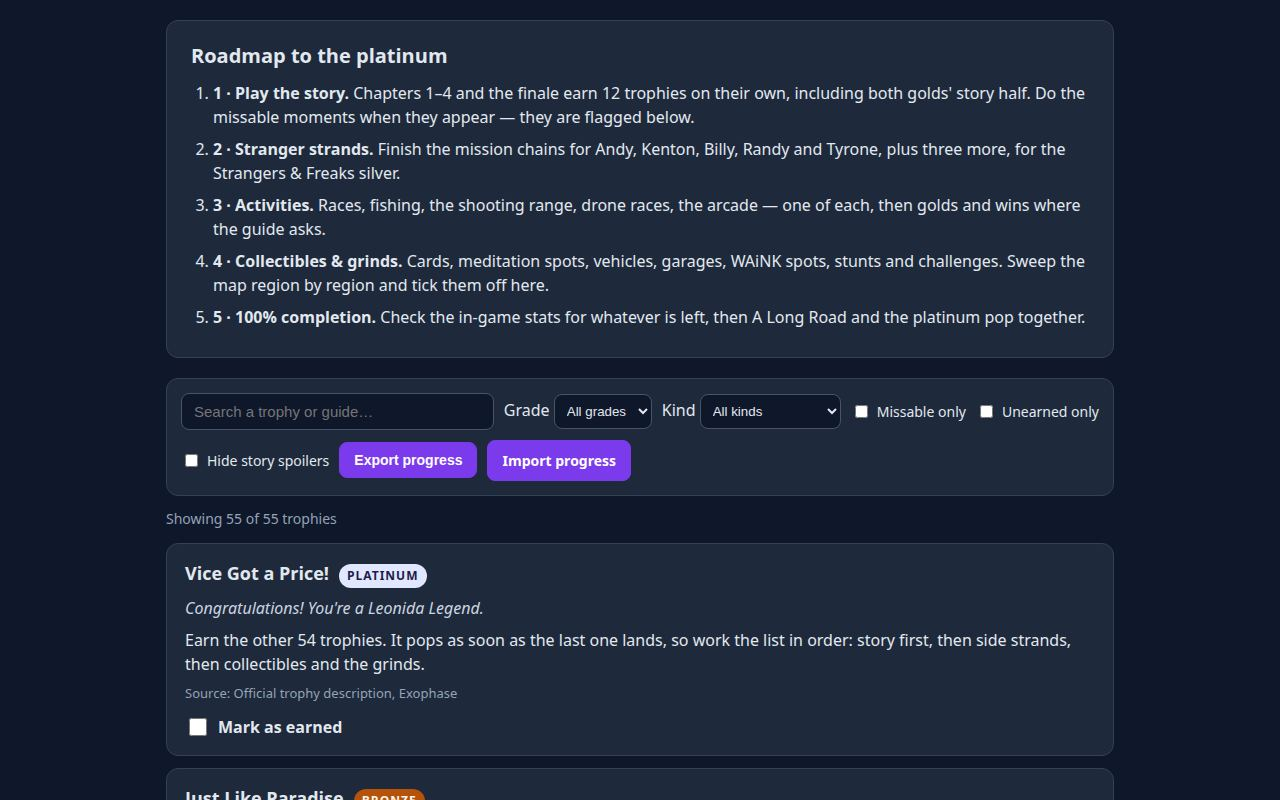
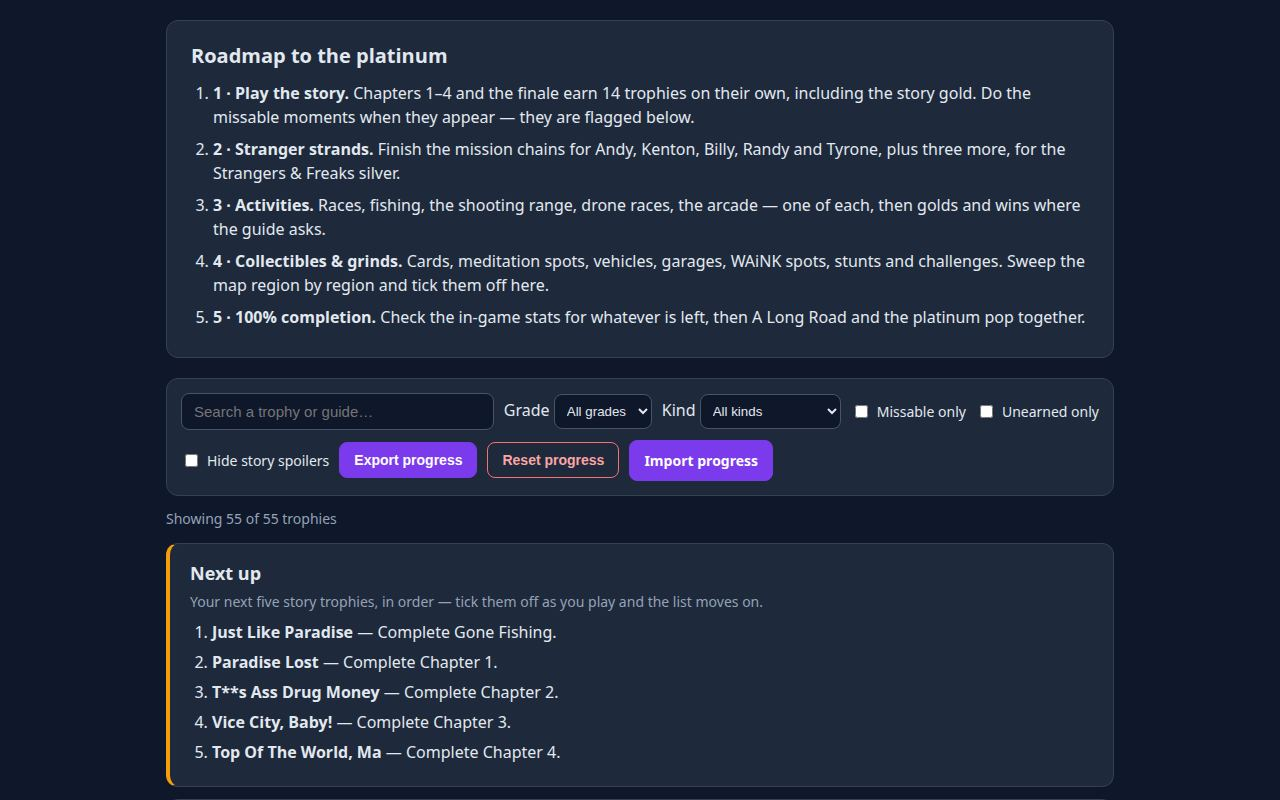
Add reset progress and Next up panel

Changed region(s): [[0.125, 0.6875, 0.8438, 1.0], [0.375, 0.5312, 0.625, 0.625], [0.6875, 0.0938, 0.8438, 0.125]]

diff --git a/app/index.html b/app/index.html
@@ -20,7 +20,7 @@
 <section class="roadmap" aria-label="Roadmap to the platinum">
   <h2>Roadmap to the platinum</h2>
   <ol>
-    <li><strong>1 · Play the story.</strong> Chapters 1–4 and the finale earn 12 trophies on their own, including both golds' story half. Do the missable moments when they appear — they are flagged below.</li>
+    <li><strong>1 · Play the story.</strong> Chapters 1–4 and the finale earn 14 trophies on their own, including the story gold. Do the missable moments when they appear — they are flagged below.</li>
     <li><strong>2 · Stranger strands.</strong> Finish the mission chains for Andy, Kenton, Billy, Randy and Tyrone, plus three more, for the Strangers &amp; Freaks silver.</li>
     <li><strong>3 · Activities.</strong> Races, fishing, the shooting range, drone races, the arcade — one of each, then golds and wins where the guide asks.</li>
     <li><strong>4 · Collectibles &amp; grinds.</strong> Cards, meditation spots, vehicles, garages, WAiNK spots, stunts and challenges. Sweep the map region by region and tick them off here.</li>
@@ -35,9 +35,15 @@
   <label class="check"><input id="unearned" type="checkbox"> Unearned only</label>
   <label class="check"><input id="spoilers" type="checkbox"> Hide story spoilers</label>
   <button id="export" type="button">Export progress</button>
+  <button id="reset" type="button">Reset progress</button>
   <label class="import">Import progress <input id="import" type="file" accept="application/json"></label>
 </section>
 <p id="count" class="count"></p>
+<section id="nextup" class="nextup" aria-label="Next up">
+  <h2>Next up</h2>
+  <p class="nextup-sub">Your next five story trophies, in order — tick them off as you play and the list moves on.</p>
+  <ol id="nextup-list"></ol>
+</section>
 <section id="list" class="list" aria-live="polite"></section>
 <footer>
   <p>Sources: every trophy's name, description and grade come from the official trophy list as printed by Exophase. Each guide is written in this project's own words from that description; where a step is not in the official description, the guide says so instead of inventing a location. Works fully offline — no network, no account, no uploads. Progress is stored only in your browser.</p>

diff --git a/app/app.js b/app/app.js
@@ -72,12 +72,42 @@ function render() {
     list.append(card);
   }
   document.getElementById("count").textContent = `Showing ${shown} of ${doc.trophies.length} trophies`;
+  renderNextUp();
   const pct = Math.round((earned.size / doc.trophies.length) * 100);
   document.getElementById("bar").style.width = pct + "%";
   document.getElementById("progress").textContent =
     `${earned.size} of ${doc.trophies.length} earned · ${pct}% · ${54 - earned.size + (earned.has("Vice Got a Price!") ? 1 : 0)} to the platinum`;
 }
 
+// The Next up panel: the first five story trophies not yet earned, in
+// the order they appear in the data, so a player always sees what the
+// story asks for next. Empty once every story trophy is earned.
+function renderNextUp() {
+  const ol = document.getElementById("nextup-list");
+  ol.replaceChildren();
+  const next = doc.trophies.filter((t) => t.category === "story" && !earned.has(t.name)).slice(0, 5);
+  if (next.length === 0) {
+    const li = document.createElement("li");
+    li.textContent = "Story complete — every story trophy earned.";
+    ol.append(li);
+    return;
+  }
+  for (const t of next) {
+    const li = document.createElement("li");
+    const name = document.createElement("strong");
+    name.textContent = hidden(t) ? "Story trophy — hidden until earned" : t.name;
+    li.append(name);
+    if (!hidden(t)) li.append(document.createTextNode(" — " + t.description));
+    ol.append(li);
+  }
+}
+
+document.getElementById("reset").addEventListener("click", () => {
+  if (!confirm("Reset all progress? Every trophy you ticked off will be unticked.")) return;
+  earned = new Set();
+  save();
+  render();
+});
 document.getElementById("export").addEventListener("click", () => {
   const a = document.createElement("a");
   a.href = URL.createObjectURL(new Blob([JSON.stringify([...earned])], { type: "application/json" }));

diff --git a/app/style.css b/app/style.css
@@ -18,6 +18,12 @@ main { max-width: 980px; margin: 0 auto; padding: 24px 16px 48px; }
 .controls select { padding: 8px; border-radius: 8px; border: 1px solid #475569; background: #0f172a; color: #e2e8f0; }
 .controls .check { display: flex; gap: 6px; align-items: center; font-size: 14px; }
 .controls button, .controls .import { padding: 9px 14px; border-radius: 8px; border: 1px solid #7c3aed; background: #7c3aed; color: #fff; font-weight: 700; cursor: pointer; font-size: 14px; }
+.controls button#reset { background: transparent; border-color: #f87171; color: #fca5a5; }
+.nextup { background: #1e293b; border: 1px solid #334155; border-left: 4px solid #f59e0b; border-radius: 12px; padding: 16px 20px; margin-bottom: 12px; }
+.nextup h2 { margin: 0 0 4px; font-size: 18px; }
+.nextup-sub { margin: 0 0 8px; color: #94a3b8; font-size: 14px; }
+.nextup ol { margin: 0; padding-left: 22px; }
+.nextup li { margin: 6px 0; }
 .controls .import input { display: none; }
 .count { color: #94a3b8; font-size: 14px; margin: 4px 0 14px; }
 .list { display: grid; gap: 12px; }

diff --git a/main.ts b/main.ts
@@ -31,6 +31,11 @@ if (existsSync(join(here, "screenshots"))) {
 // the bytes; the others refuse an entry the scorer would refuse (more
 // than 4 screenshots or one over 256 KiB; more than 993 files in app/
 // or 48 MiB of app files).
+//
+// The dossier itself is the judge's view of the entry: buildDossier walks
+// the copied app/ and screenshots/ in the output directory, hashes every
+// file, and writes the summary the judge reads, so the dossier always
+// describes exactly what was handed in and nothing else.
 writeFileSync(
   join(out, "dossier.json"),
   buildDossier(out, {

diff --git a/README.md b/README.md
@@ -9,7 +9,7 @@ An offline trophy guide and tracker for Grand Theft Auto VI, for make.fun's "Bui
 ## What it is
 
 - **All 55 trophies** in `app/data/trophies.json` — name, official description, grade, kind, and whether it can be missed — with a guide written in this project's own words for each one.
-- **A tracker** (`app/`): tick trophies off and they stay ticked, with a progress bar, search, filters by grade and kind, a missable-only view, and export/import of progress as JSON.
+- **A tracker** (`app/`): tick trophies off and they stay ticked, with a progress bar, search, filters by grade and kind, a missable-only view, and export/import of progress as JSON. A **Reset progress** button clears all ticks after asking for confirmation, and a **Next up** panel lists the first five unearned story trophies in order, so a player always sees what the story asks for next.
 - **A spoiler setting** that hides story trophies until you earn them, so the list is safe to browse mid-playthrough. Ten trophies are flagged missable — the moments to do while they are available, with a note to replay the mission from the pause menu if one has passed.
 - **A roadmap** in five phases: story, stranger strands, activities, collectibles and grinds, then 100% completion.
 
